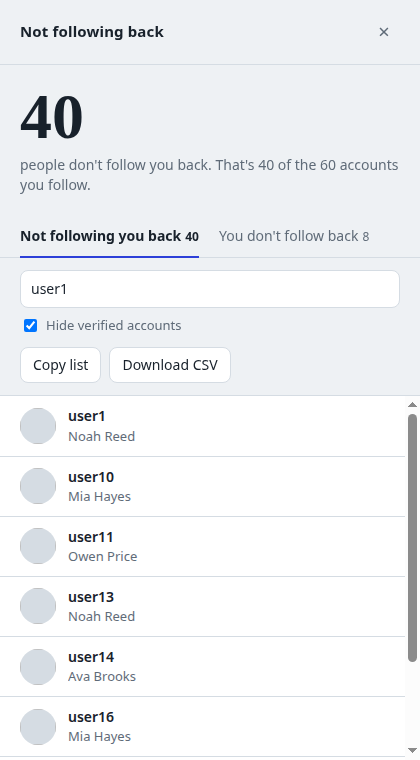
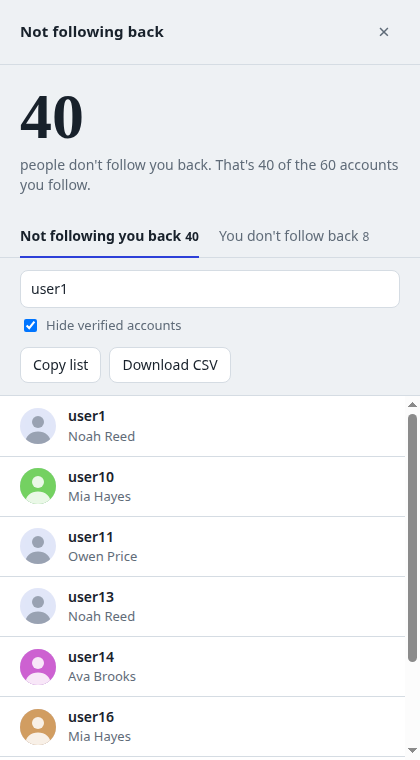
Show a default silhouette when a profile photo is missing or fails to load
Claude-Session: https://claude.ai/code/session_0133nWHxmCrFRZYFTCkRyke3

diff --git a/not_following_back_ui.js b/not_following_back_ui.js
@@ -82,7 +82,9 @@
   .list { flex:1; overflow:auto; border-top:1px solid var(--line); background:var(--surface); }
   .row { display:grid; grid-template-columns:36px 1fr auto; gap:12px; align-items:center; padding:10px 20px; color:inherit; text-decoration:none; border-bottom:1px solid var(--line); }
   .row:hover { background: var(--soft); }
-  .av { width:36px; height:36px; border-radius:50%; background:var(--line); object-fit:cover; }
+  .av { position:relative; display:block; width:36px; height:36px; border-radius:50%; overflow:hidden; background:var(--soft); }
+  .av svg { display:block; width:100%; height:100%; fill:var(--muted); opacity:.55; }
+  .av img { position:absolute; inset:0; width:100%; height:100%; object-fit:cover; background:var(--soft); }
   .nm { font-weight:600; overflow:hidden; text-overflow:ellipsis; white-space:nowrap; }
   .fn { color:var(--muted); font-size:13px; overflow:hidden; text-overflow:ellipsis; white-space:nowrap; }
   .tag { font-size:12px; color:var(--accent); }
@@ -213,6 +215,27 @@
     animateBig(d.notBack.length);
   }
 
+  // Default silhouette sits underneath; the real photo covers it once it loads
+  // and is removed again if it fails (blocked by CSP, expired URL, no photo).
+  function avatar(src) {
+    const ns = "http://www.w3.org/2000/svg";
+    const svg = document.createElementNS(ns, "svg");
+    svg.setAttribute("viewBox", "0 0 36 36");
+    svg.setAttribute("aria-hidden", "true");
+    const head = document.createElementNS(ns, "circle");
+    head.setAttribute("cx", "18"); head.setAttribute("cy", "14"); head.setAttribute("r", "6");
+    const body = document.createElementNS(ns, "path");
+    body.setAttribute("d", "M5 36c0-8 6-12.5 13-12.5S31 28 31 36z");
+    svg.append(head, body);
+    const wrap = h("span", { class: "av" }, svg);
+    if (src) {
+      const img = h("img", { alt: "", loading: "lazy", referrerpolicy: "no-referrer", onerror: () => img.remove() });
+      img.src = src;
+      wrap.append(img);
+    }
+    return wrap;
+  }
+
   function renderList() {
     const rows = filtered();
     const frag = [];
@@ -220,10 +243,8 @@
       frag.push(h("div", { class: "empty" }, S.q || S.hideVerified ? "No accounts match this filter." : "This list is empty."));
     }
     for (const u of rows.slice(0, S.shown)) {
-      const img = h("img", { class: "av", alt: "", loading: "lazy", referrerpolicy: "no-referrer" });
-      if (u.pic) img.src = u.pic;
       frag.push(h("a", { class: "row", href: `https://www.instagram.com/${u.username}/`, target: "_blank", rel: "noopener noreferrer" },
-        img,
+        avatar(u.pic),
         h("div", { style: "min-width:0" }, h("div", { class: "nm" }, u.username), u.name ? h("div", { class: "fn" }, u.name) : null),
         u.verified ? h("span", { class: "tag" }, "Verified") : null));
     }

diff --git a/README.md b/README.md
@@ -45,7 +45,7 @@ The big number is how many accounts you follow that don't follow you back. Two t
 - **Not following you back**: you follow them, they don't follow you.
 - **You don't follow back**: they follow you, you don't follow them.
 
-Click any row to open that profile in a new tab.
+Click any row to open that profile in a new tab. Accounts without a profile photo, or whose photo can't be loaded, show a default silhouette instead.
 
 <br clear="right">
 
